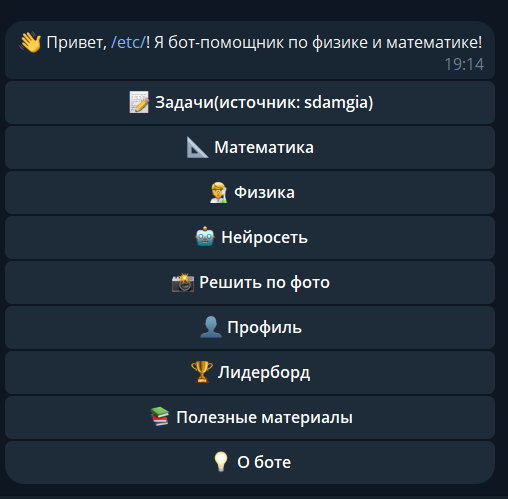
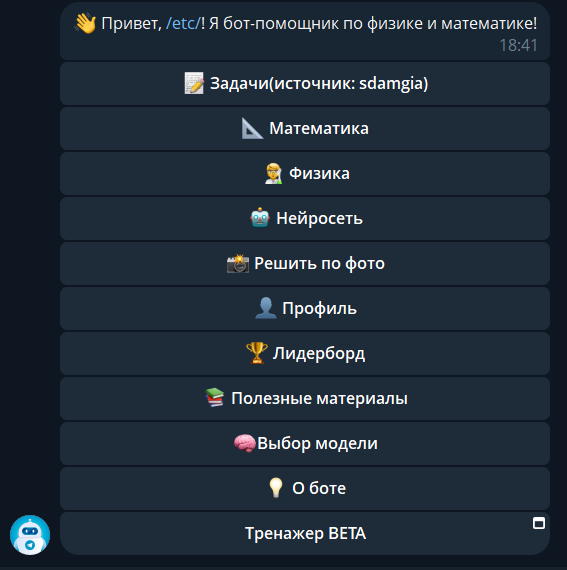
readme

Changed region(s): [[0.0, 0.0, 0.9744, 0.992]]

diff --git a/README.md b/README.md
@@ -223,6 +223,9 @@ GEMINI_API_KEY=your_gemini_api_key
 ### Мониторинг в Grafana
 <img src="images/grafana_metrics.jpg" width="900">
 
+### WEBAPP
+<img src="images/webapp.png" width="900">
+
 ---
 🛠 Как поднять этого бота на сервере
 1. Подготовка.
